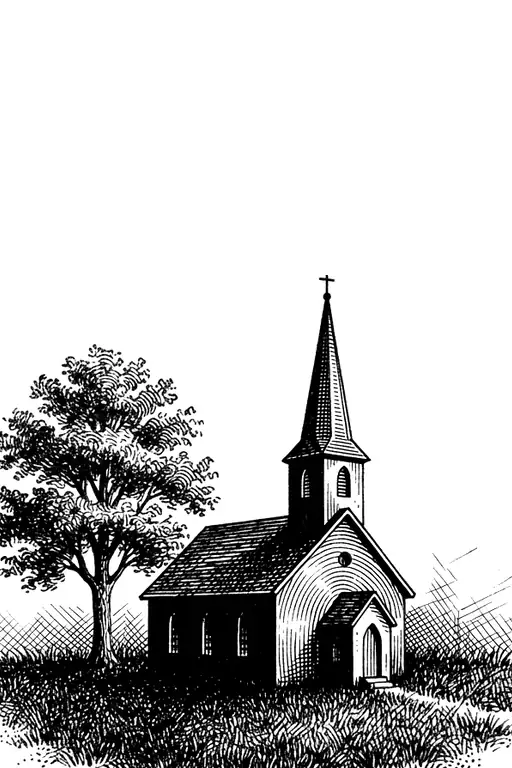
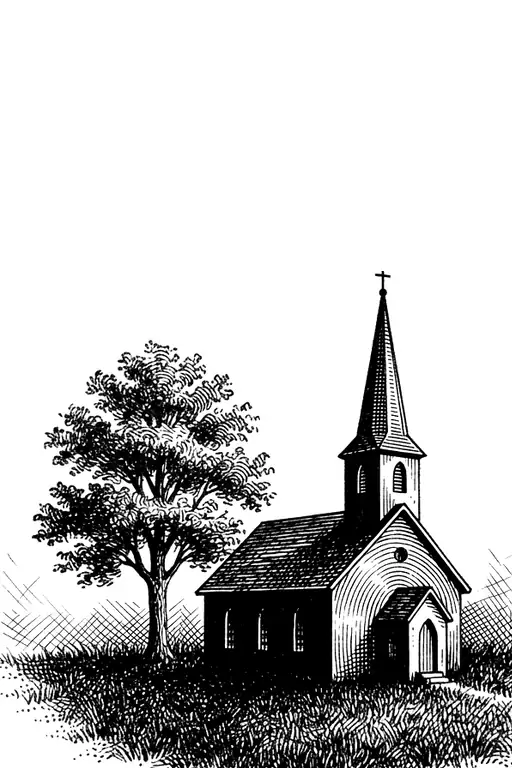
Keep the top of each drawing whole when framing art
Only the bottom and lower sides bleed now. The zoom is limited by the width
of the top half of the ink, so a tree keeps its canopy while ground and water
run off the edges.

diff --git a/docs/SPEC.md b/docs/SPEC.md
@@ -311,20 +311,21 @@ model and costs more, so asking for less would cost more. Every book is always s
 2:3, never square (Steve). Art is generated at 1:1 and seated at the bottom of a 2:3 page. Check prices before a large run.
 
 **Post-process, in this order:** greyscale, level the paper to white and the ink to black, then frame
-it: find where the ink is dense (blur and threshold, so stray strokes don't count), crop to that, fit
-to 122% of the width and 112% of the width in height, cut 6% off the bottom, and centre it at the
-bottom of a white 2:3 page. The art runs off the bottom and lower sides, and the blank top stays. Then encode two
+it: find where the ink is dense (blur and threshold, so stray strokes don't count), crop to that, scale
+it up to 122% of the page width, but never so far that the top half of the ink is wider than the
+page. Cut 5% off the bottom and centre on the upper subject, at the bottom of a white 2:3 page. So
+only the bottom and lower sides bleed: a tree keeps its whole canopy, and the blank top stays. Then encode two
 sizes as WebP at quality 60. Discard the original:
 regenerating one costs under 2 cents, and keeping them would use more storage than
 everything else combined.
 
 | Rendition | Used for | Size per image, measured |
 |---|---|---|
-| 256px | Grid cells on most screens | 8 to 18 KB |
-| 512px | Book page, large cells, high-density phones | 30 to 59 KB |
+| 256px | Grid cells on most screens | 7 to 18 KB |
+| 512px | Book page, large cells, high-density phones | 27 to 60 KB |
 
-Those are measured on 10 real generated drawings. At about 77 KB at worst for a book, 2,000
-books use at most about 152 MB of Convex's included 1 GB. `srcset` picks the size. Serve with long-lived caching, because art for a work never changes; a
+Those are measured on 10 real generated drawings. At about 78 KB at worst for a book, 2,000
+books use at most about 153 MB of Convex's included 1 GB. `srcset` picks the size. Serve with long-lived caching, because art for a work never changes; a
 regeneration gets a new file. Verify the real cache headers on Convex's file URLs.
 
 **One file, both themes.** Art is stored as a neutral drawing on white and printed onto

diff --git a/docs/art/prompt.md b/docs/art/prompt.md
@@ -1,8 +1,8 @@
 # Cover art prompt
 
 Sent to `gemini-3.1-flash-lite-image` at 1K and 1:1, with `style-reference.png` as the reference image. `{{subject}}` comes from
-the small text model. Post-process with: greyscale, `-level 10%,85%`, crop to the dense ink, fit to 122% of the width and 112% of the
-width in height, cut 6% off the bottom, centre at the bottom of a white 2:3 page, WebP quality 60. SPEC §3.11 has the detail.
+the small text model. Post-process with: greyscale, `-level 10%,85%`, crop to the dense ink, scale so the top half of the ink fits the page
+(up to 122% zoom), cut 5% off the bottom, seat at the bottom of a white 2:3 page, WebP quality 60. SPEC §3.11 has the detail.
 
 ```
 Draw one small ink illustration for a printed book catalog.
